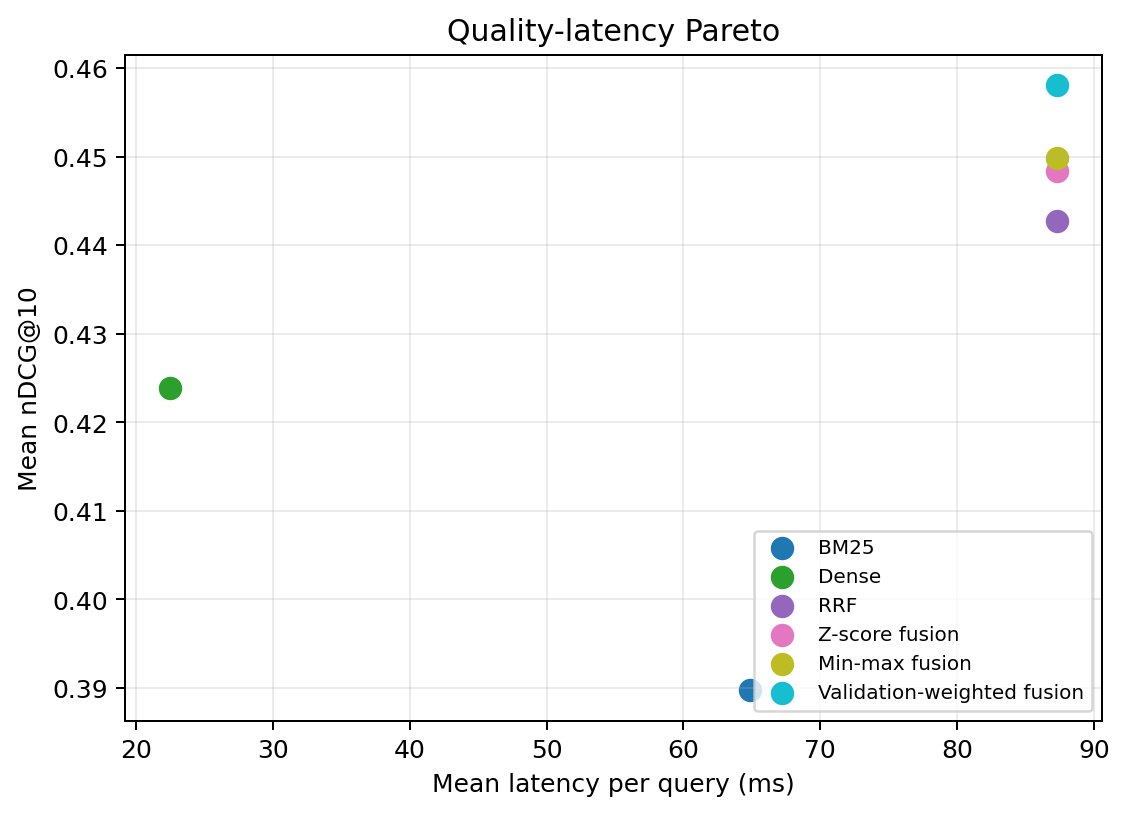
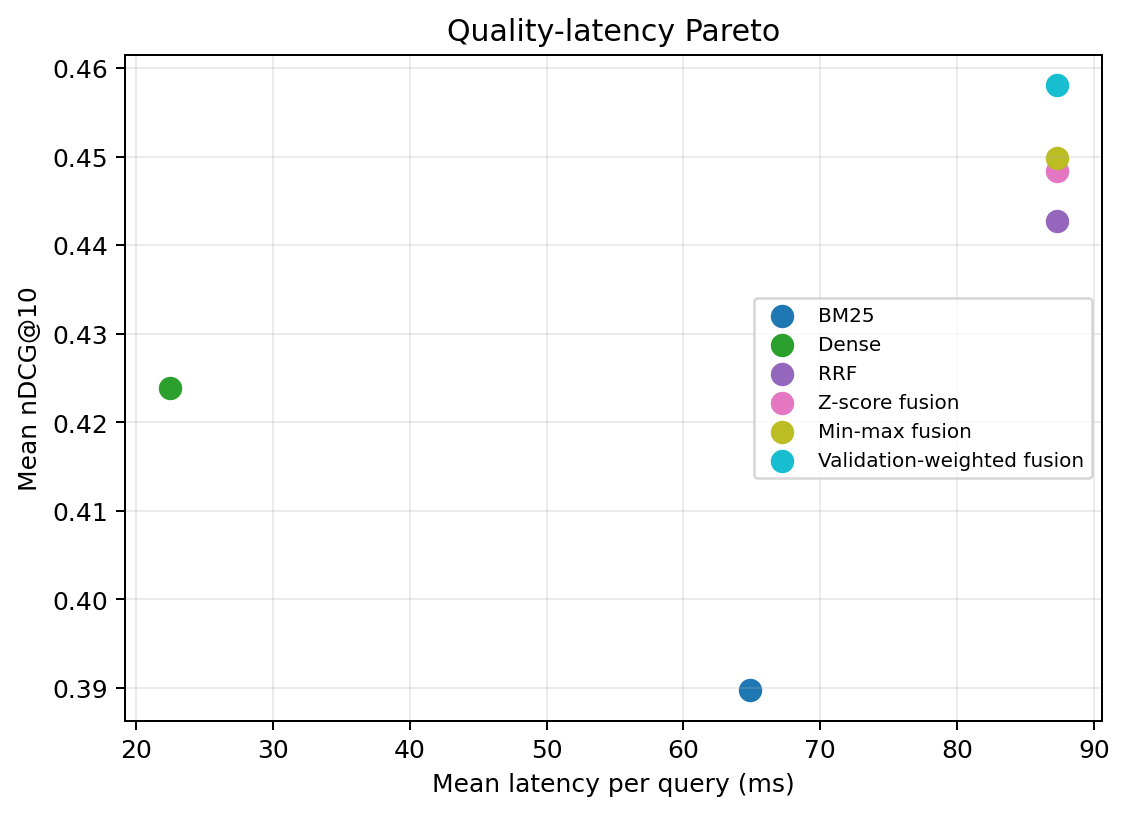
Update author list and fix figure legend positions

Changed region(s): [[0.6522, 0.645, 0.9627, 0.8907], [0.6832, 0.3378, 0.9627, 0.6143]]

diff --git a/README.md b/README.md
@@ -2,7 +2,7 @@
 
 > **Validation-Guided Sparse-Dense Score Fusion for Lightweight Neural Retrieval**
 >
-> Yaowen Sun
+> Yaowen Sun, Shaolei Zhao, Hai Fu
 
 ## Overview
 
@@ -169,7 +169,7 @@ seed. The core columns are:
 ```bibtex
 @article{sun2026validation_guided_sparse_dense_fusion,
   title = {Validation-Guided Sparse-Dense Score Fusion for Lightweight Neural Retrieval},
-  author = {Sun, Yaowen},
+  author = {Sun, Yaowen and Zhao, Shaolei and Fu, Hai},
   year = {2026}
 }
 ```
